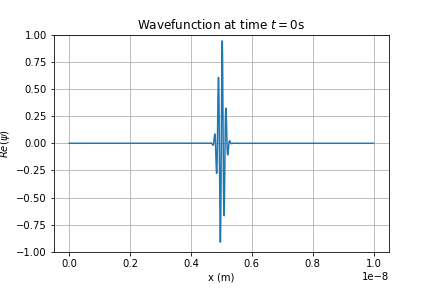
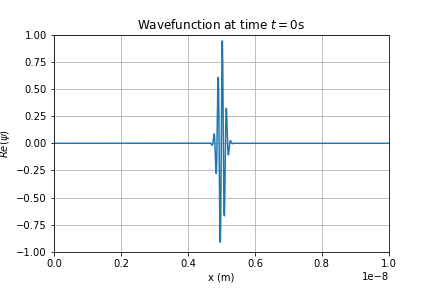
done?

diff --git a/Lab09/tex_file/PHY407_Lab09.tex b/Lab09/tex_file/PHY407_Lab09.tex
@@ -176,6 +176,10 @@ Another major disadvantage of the spectral method is that the problems it can be
 
 We seek to use the Crank-Nicolson method to solve the full time-dependent Schrodinger equation in one dimension, and to animate the time evolution of a wavefunction given its initial conditions.
 
+The code that was written to do this is attached, in Lab09\_Q2.py. The code requires ffmpeg to be downloaded with its path specified to pyplot in order to run, and outputs an mp4 of the animation up to $t=2\times 10^{-15}$s. By watching the animation, we see that the wavefunction moves to the right as time goes on, while also spreading out. When it hits the right wall, it is reflected back and travels to the left, interfering with itself in the process. This behaviour makes sense given what we know about quantum mechanics - the particle represented by the wavefunction would start with some approximate position and velocity in the center of the well, and then its probability density function, given by $|\psi|^2$, both moves to the right (the direction of its velocity) and gets broader over time.
+
+Screenshots of the wavefunction are provided at times $t=0$s, $t=1\times 10^{-16}$s, and $t=1\times 10^{-15}$s in figures \ref{fig:q2_t=0}, \ref{fig:q2_t=1e-16}, and \ref{fig:q2_t=1e-15} respectively. From these we can see the general behaviour of the wavefunction as a function of time, and that it moves to the right until bouncing off the wall, and also spreads out as time goes on.
+
 \begin{figure}[H]
 	\centering
 	\includegraphics[width=0.8\textwidth]{../images/q2_t=0.png}
@@ -196,7 +200,6 @@ We seek to use the Crank-Nicolson method to solve the full time-dependent Schrod
 	\caption{Snapshot of wavefunction at $t=1\times 10^{-15}$s.}
 	\label{fig:q2_t=1e-15}
 \end{figure}
-
 
 \section{Solving Burger's equation using Lax-Wendroff}
 For this question we desire to solve again solve Burger's equation but using the Lax-Wendroff method, to be derived, in place of the leapfrog method used in Lab08.

diff --git a/Lab09/code/Lab09_Q2.py b/Lab09/code/Lab09_Q2.py
@@ -10,14 +10,14 @@ schrodinger equation and compute the time evolution of a wave function given
 it's initial condition.
 """
 
+#import modules
 import numpy as np
 import matplotlib.pyplot as plt
 import matplotlib.animation as animation
 import scipy.constants as pc
-'''
+
 #define path to ffmpeg for animation
 plt.rcParams['animation.ffmpeg_path'] = '/Users/Hayden/ffmpeg-4.1-macos64-static/bin/ffmpeg'
-#zeranoe
 
 #define constants
 m = pc.m_e #electron mass
@@ -32,7 +32,7 @@ L = 1e-8
 a = L/N
 
 #define timestep and final time
-timesteps = 5000
+timesteps = 2000
 h = 1e-18
 t_final = timesteps*h
 
@@ -91,6 +91,9 @@ fig = plt.figure(0)
 plt.title('Time evolution of wavefunction')
 plt.xlabel('x (m)')
 plt.ylabel('$Re(\psi)$')
+plt.ylim([-1,1])
+plt.xlim([0,1e-8])
+plt.grid()
 
 #specify plots for animation (at every fifth timestep)
 plots = []
@@ -104,11 +107,11 @@ ani = animation.ArtistAnimation(fig, plots, interval=2, blit=True)
 #save the animation
 FFwriter = animation.FFMpegWriter(fps=30)
 ani.save('../images/animation.mp4', writer = FFwriter)
-'''
+
 #specfy times at which function will be plotted
 times = [0,1e-16,1e-15]
 
-#iterate over list of times:
+#iterate over list of times and create a plot for each one
 for i in range(len(times)):
     plt.figure(i+1)
     plt.plot(x, np.real(wavefunction[int(times[i]/h)]))
@@ -117,5 +120,5 @@ for i in range(len(times)):
     plt.ylabel('$Re(\psi)$')
     plt.grid()
     plt.ylim([-1,1])
+    plt.xlim([0,1e-8])
     plt.savefig('../images/q2_t='+str(times[i])+'.png')
-
